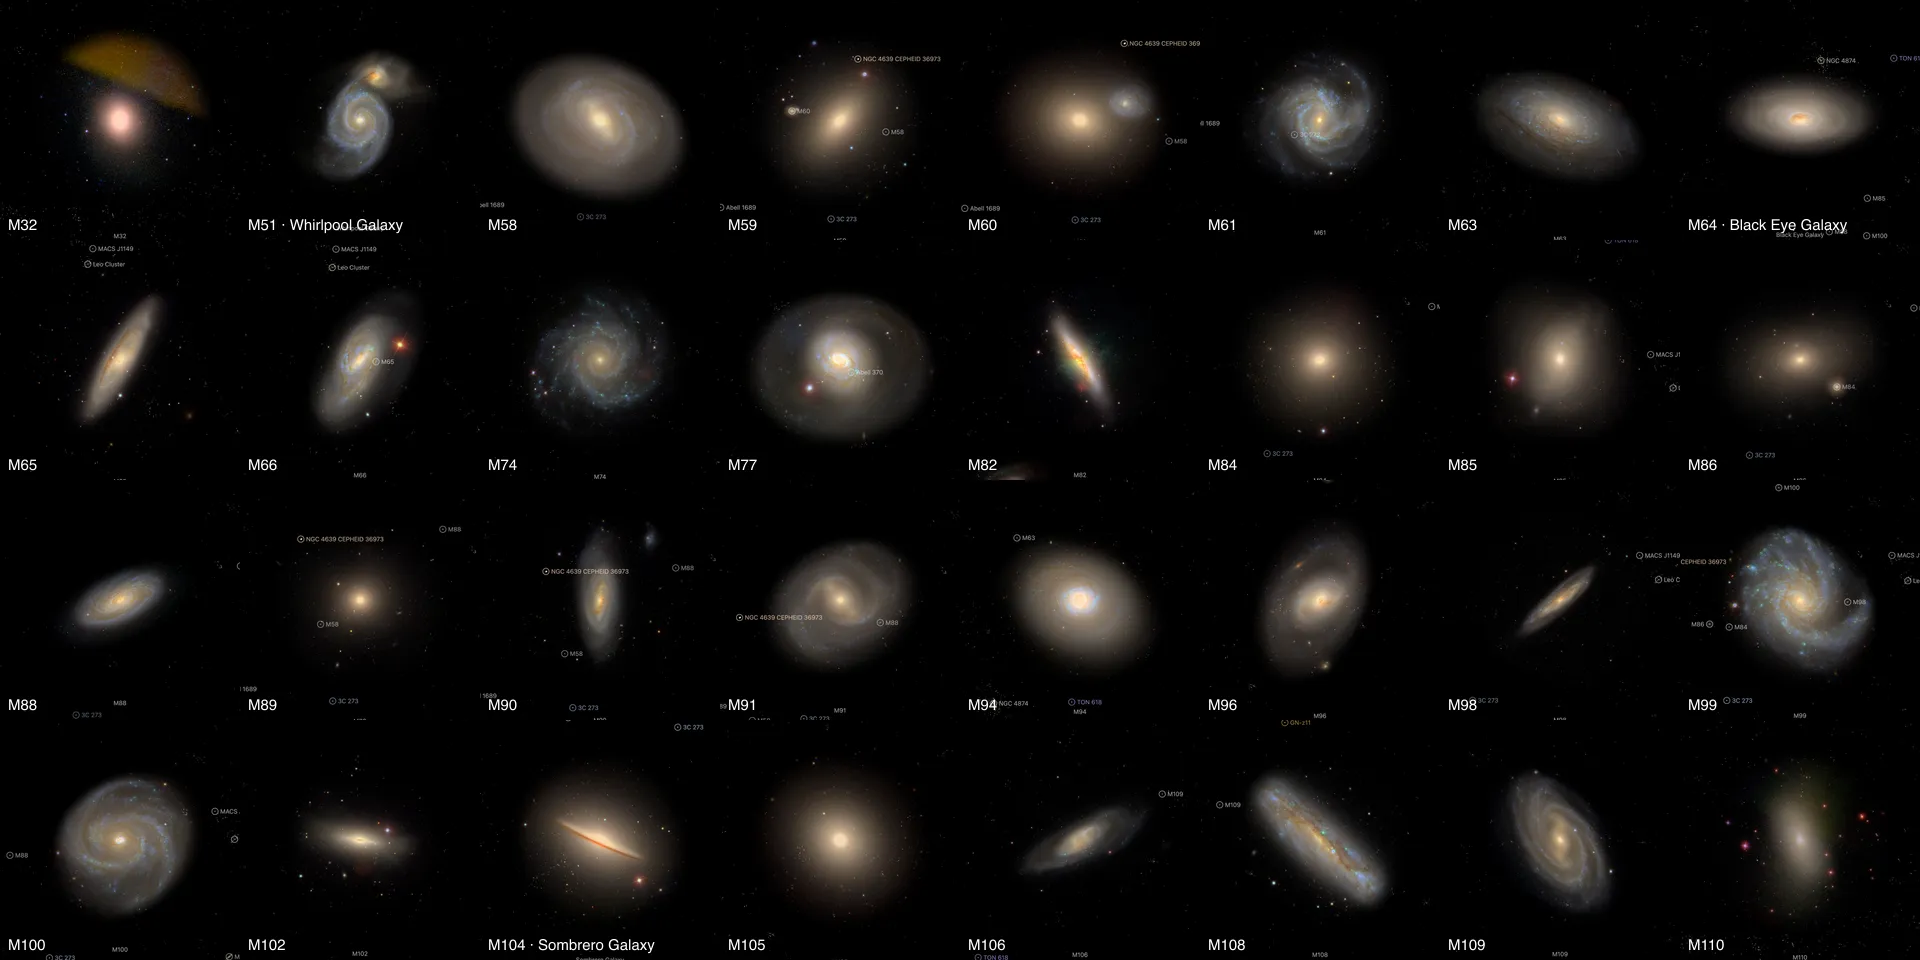
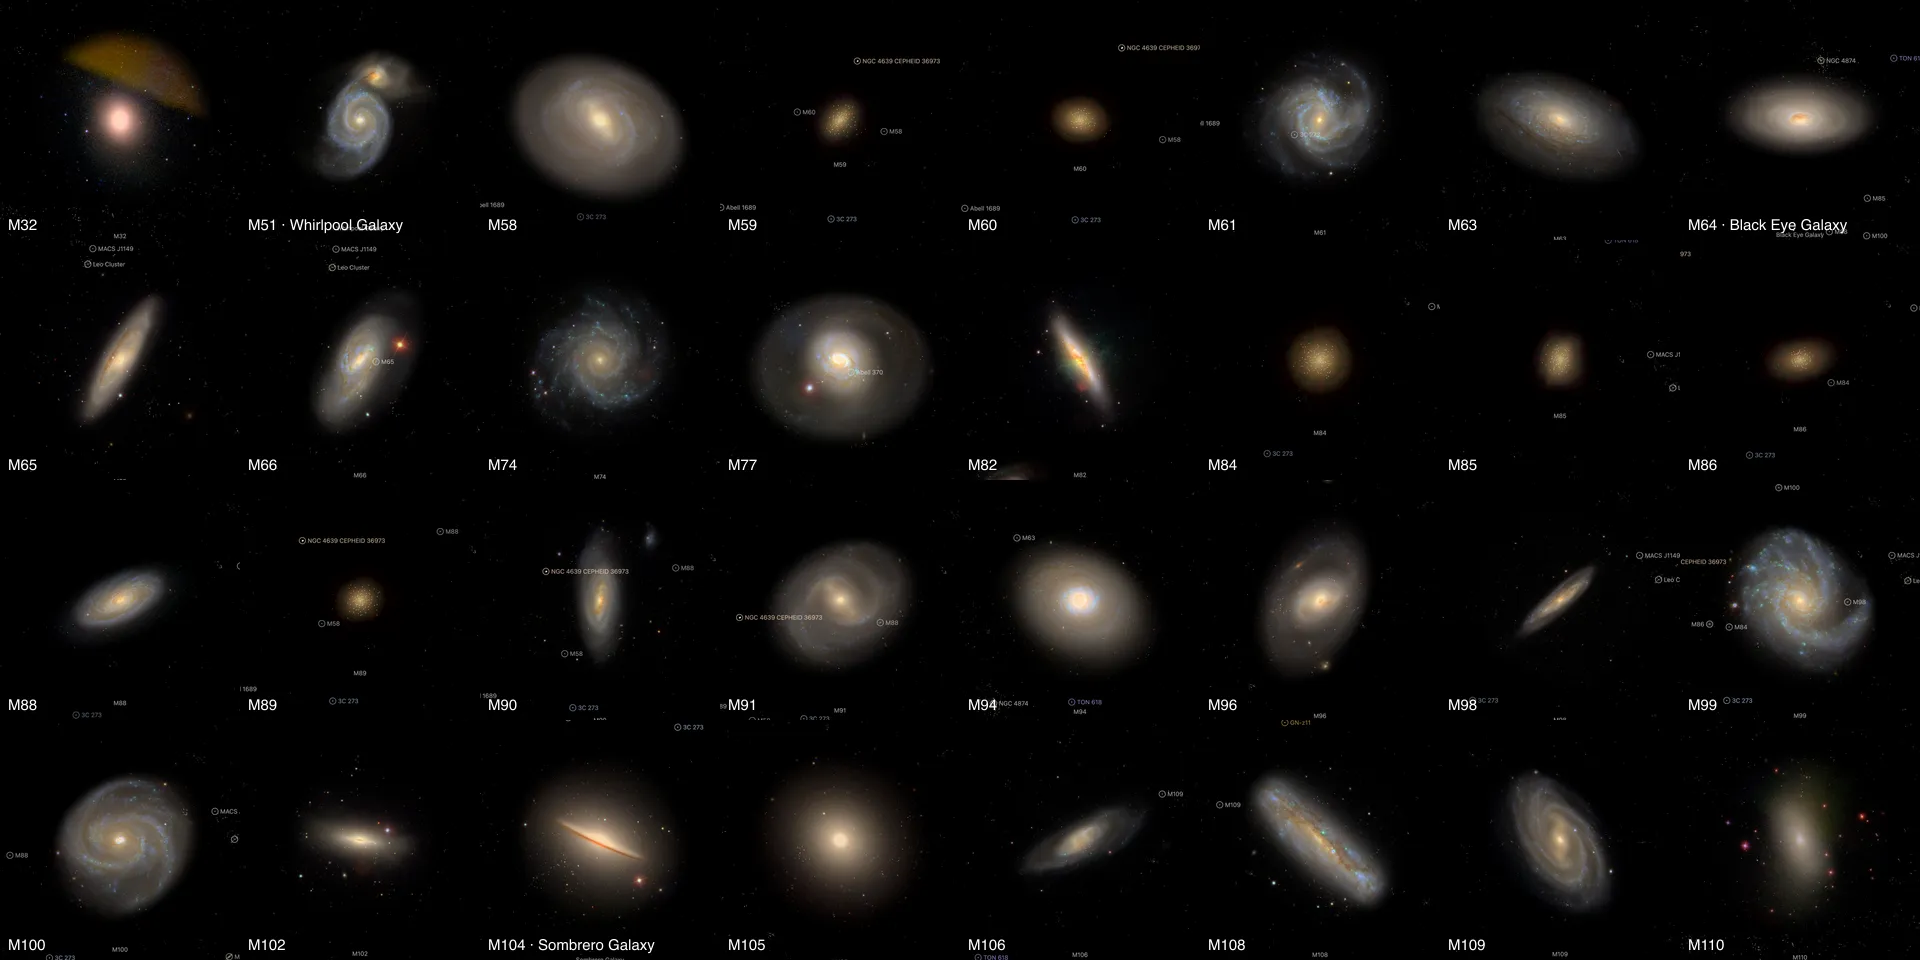
docs(messier): the six ellipticals drawn as volumes

diff --git a/docs/messier/README.md b/docs/messier/README.md
@@ -2,7 +2,7 @@
 
 109 of Charles Messier's 110 objects are places in the world. Each has its own page (`/m13/`, `/m51/`, `/m57/`), found by its Messier number, its NGC number or its common name. M24 is left out; the reason is under [Left out](#left-out).
 
-Twelve were built one at a time, with their own guides: the nebulae M1, M8, M42 and M45 ([nebulae](../nebulae/README.md)) and the galaxies M31, M33, M49, M81, M83, M87, M95 and M101 ([galaxies](../galaxies/README.md)). The other 97 share the four routes below. Each package's README names its own sources, numbers and known problems.
+Twelve were built one at a time, with their own guides: the nebulae M1, M8, M42 and M45 ([nebulae](../nebulae/README.md)) and the galaxies M31, M33, M49, M81, M83, M87, M95 and M101 ([galaxies](../galaxies/README.md)). The other 97 share the routes below. Each package's README names its own sources, numbers and known problems.
 
 ## What is drawn
 
@@ -11,7 +11,8 @@ Twelve were built one at a time, with their own guides: the nebulae M1, M8, M42 
 | Globular clusters (29) | M2, M3, M4, M5, M9, M10, M12, M13, M14, M15, M19, M22, M28, M30, M53, M54, M55, M56, M62, M68, M69, M70, M71, M72, M75, M79, M80, M92, M107 | One dot per member star, in its Gaia color | Members: [Hunt & Reffert (2023)](https://cdsarc.cds.unistra.fr/viz-bin/cat/J/A+A/673/A114). Distance and position: [Baumgardt & Vasiliev (2021)](https://doi.org/10.1093/mnras/stab1474) |
 | Open clusters (25) | M6, M7, M11, M18, M21, M23, M25, M26, M29, M34, M35, M36, M37, M38, M39, M41, M44, M46, M47, M48, M50, M52, M67, M93, M103 | One dot per member star, in its Gaia color | Members, distance, position and age: Hunt & Reffert (2023) |
 | Disc galaxies seen from above (15) | M51, M58, M61, M63, M64, M66, M74, M77, M88, M91, M94, M96, M99, M100, M109 | A Sloan Digital Sky Survey picture laid flat on the measured disc | Tilt: [PHANGS](https://cdsarc.cds.unistra.fr/viz-bin/cat/J/ApJS/257/43) where it lists the galaxy, else [HyperLEDA](http://atlas.obs-hp.fr/hyperleda/). Distance: [Cosmicflows-4](https://cdsarc.cds.unistra.fr/viz-bin/cat/J/ApJ/944/94), else PHANGS or Cosmicflows-3 |
-| Ellipticals, lenticulars and steep discs (17) | M32, M59, M60, M65, M82, M84, M85, M86, M89, M90, M98, M102, M104, M105, M106, M108, M110 | A Sloan picture standing flat, facing the Sun | Same distances; no shape is drawn |
+| Ellipticals with a published profile (6) | M59, M60, M84, M85, M86, M89 | A volume of starlight: the Sloan picture, cleaned of stars and neighbours, spread in depth through the galaxy's measured profile, with its globular clusters as dots | Profile and shape: [Kormendy et al. (2009)](https://arxiv.org/abs/0810.1681). Clusters: [Jordán et al. (2009)](https://cdsarc.cds.unistra.fr/viz-bin/cat/J/ApJS/180/54). Same distances |
+| Other ellipticals, lenticulars and steep discs (11) | M32, M65, M82, M90, M98, M102, M104, M105, M106, M108, M110 | A Sloan picture standing flat, facing the Sun | Same distances; no shape is drawn |
 | Nebulae (9) | M16, M17, M20, M27, M43, M57, M76, M78, M97 | An ESO, Hubble or NOIRLab photograph standing flat, facing the Sun (M97: a Sloan picture); M16 and M78 also draw their cluster's stars | Distance: Hunt & Reffert (M16, M78), [Kuhn et al. (2019)](https://cdsarc.cds.unistra.fr/viz-bin/cat/J/ApJ/870/32) (M17, M20), Menten et al. (2007) (M43), [Chornay & Walton (2021)](https://cdsarc.cds.unistra.fr/viz-bin/cat/J/A+A/656/A110) (the four planetary nebulae) |
 | Stars (2 entries) | M40: HD 238107 and HD 238108. M73: BD-13 5809, HD 358033 and BD-13 5808 | Each star as a body, with its Gaia color and limb | Gaia DR3; the two entries are chance alignments, so neither has a package of its own |
 
@@ -30,6 +31,7 @@ Each tile is the object's own page in headless Chromium at 1440 × 900, device p
 | Star positions, colors and membership; distances; galaxy tilts, sizes and colors | Measured, each cited in its package |
 | A cluster star's depth inside its cluster | Assumed: the cluster is drawn as deep as it is wide on the sky |
 | Which edge of a tilted galaxy is nearer | Assumed: no catalogue used here gives it |
+| The depth of an elliptical's light and of its globular clusters | Modelled: the published Sérsic profile, deprojected on a spheroid whose axis lies in the plane of the sky. The light along each sight line is the picture's |
 | The plane of a flat picture that faces the Sun | Not a shape: it is where a picture of the sky lies |
 | Dot size and tone, picture rims, framing radii | Presentation |
 
@@ -38,6 +40,8 @@ Each tile is the object's own page in headless Chromium at 1440 × 900, device p
 - `appearance.colorByBpRp` in [prepare-catalogue-points](../../packages/bake/cli/prepare-catalogue-points.mts): a dot's color from its Gaia BP-RP through the fit of Cardiel et al. (2021), the one the nebula star fields already use.
 - `geometry.unit: "pc"` in the [image-layer recipe](../../packages/bake/src/image-layers/config.ts): a bank in parsecs. A nebula a few parsecs across is smaller than one CSS pixel in kiloparsecs, and its picture was drawn far too large.
 - The `open-cluster` classification beside `globular-cluster`.
+
+The six volumes use the Nebula Lab route of [M49](../../src/objects/m49-volume/README.md#method) unchanged; their recipes are `labs/nebula/models/m59` to `m89`.
 
 ## Reproduce
 
@@ -56,6 +60,17 @@ node site/build/prepare/prepare-volume-presentation.mts --object=m51-layers
 node packages/bake/cli/prepare-object.mts m51
 ```
 
+An elliptical's volume, from its lab recipe:
+
+```sh
+node labs/nebula/run.mts prepare-emission labs/nebula/models/m60/experiment.json
+node labs/nebula/run.mts prepare-nebula-objects --research --object=m60-volume
+node packages/bake/cli/prepare-nebulae.mts --object=m60-volume
+node packages/bake/cli/prepare-catalogue-points.mts src/objects/m60-volume jordan-gc
+node packages/bake/cli/merge-catalogue-points.mts src/objects/m60-volume dots
+node packages/bake/cli/prepare-object.mts m60
+```
+
 Member tables, survey cutouts and photographs are not tracked: each manifest names the query or address that restores them.
 
 ## Left out
@@ -66,6 +81,8 @@ Member tables, survey cutouts and photographs are not tracked: each manifest nam
 ## Known problems
 
 - Gaia misses stars where they crowd, so the core of a globular cluster holds fewer dots than stars.
-- A flat picture seen from the side is a line. Volumes for the planetary nebulae and the ellipticals, from their published shapes, are the next step ([ledgers](../../src/objects/m57-layers/investigations.json)).
+- A flat picture seen from the side is a line. M32, M105 and M110 are not in Kormendy et al.'s Virgo sample and stay flat pictures; a volume for a planetary nebula needs its published axis and inclination ([ledgers](../../src/objects/m57-layers/investigations.json)).
+- A volume's page frames the whole measured profile, so the galaxy arrives smaller on the screen than a flat picture does.
+- A volume's depth is modelled. M86's fit has a half-light radius beyond its measured profile, and its paper calls the fit's index unusually large.
 - The Sloan pictures are shallow: faint outer light is lost and the brightest centres may be saturated.
 - The Milky Way's cluster catalogues still draw each of these clusters as one dot of their own.
